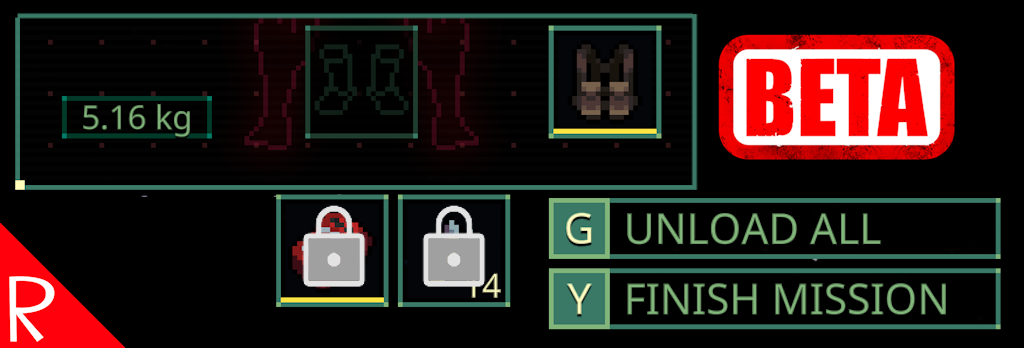
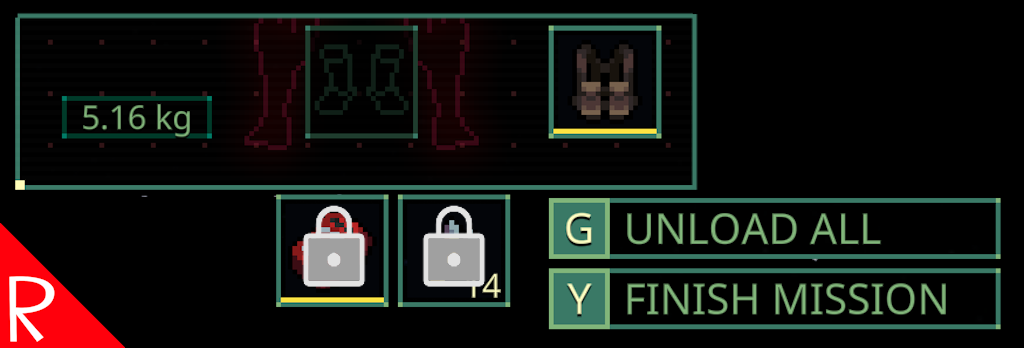
image update

Changed region(s): [[0.6875, 0.0862, 0.9375, 0.4598]]

diff --git a/README.md b/README.md
@@ -2,11 +2,6 @@
 
 ![thumbnail icon](media/thumbnail.png)
 
-# Important
-This version of the mod is only for the opt in beta version of the game!
-
-# Docs
-
 On the after raid screen, prevents the vest quick slots at the bottom of the screen from being unloaded.
 
 Click the unload button while holding shift to use the normal unload which unloads the vest slots.
